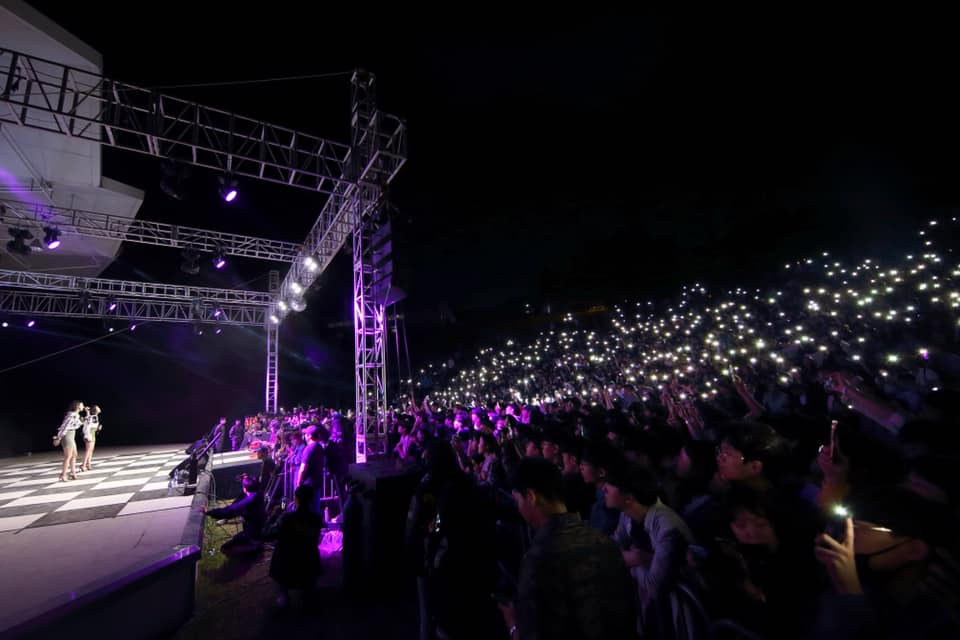
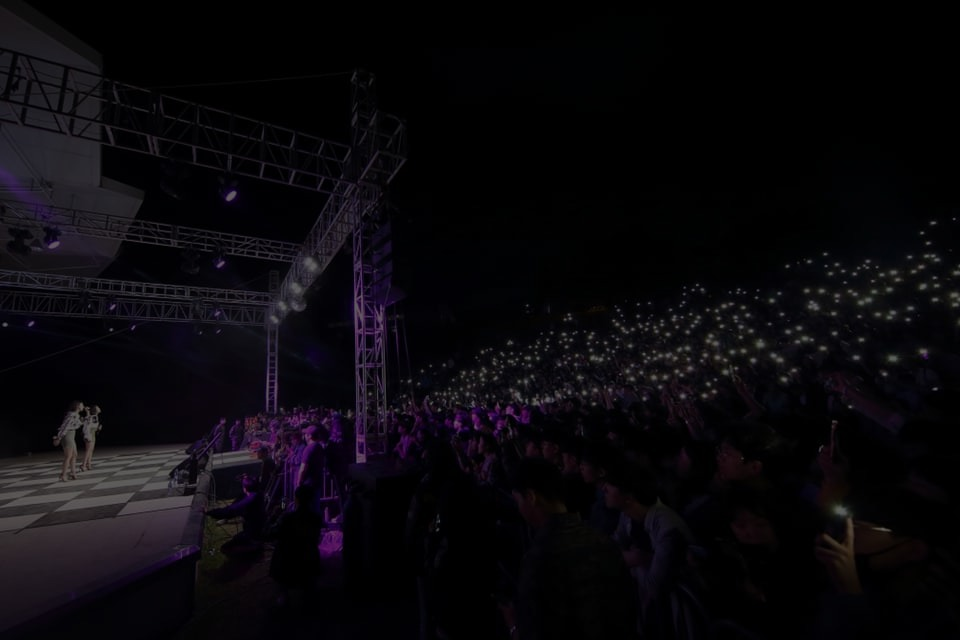
fixed carousel image

diff --git a/index.html b/index.html
@@ -63,43 +63,32 @@
         </ol>
         <div class="carousel-inner">
         <div class="carousel-item active">
-            <svg class="bd-placeholder-img" width="100%" height="100%" xmlns="http://www.w3.org/2000/svg" preserveAspectRatio="xMidYMid slice" focusable="false" role="img"><rect width="100%" height="100%"/>
-                <img class="img1" src="images/c1.jpg" alt="">
-            </svg>
-            <div class="container">
+            <img class="img1" src="images/c1.jpg" alt="">
             <div class="carousel-caption text-left">
                 <h1>렛츠 에스카라!</h1>
                 <p>장소: 성균관대학교 인문 캠퍼스<br>일시: 2020년 5월 15일</p>
                 <p> <br> </p>
                 <p> <br> </p>
             </div>
-            </div>
         </div>
         <div class="carousel-item">
-            <svg class="bd-placeholder-img" width="100%" height="100%" xmlns="http://www.w3.org/2000/svg" preserveAspectRatio="xMidYMid slice" focusable="false" role="img"><rect width="100%" height="100%"/>
                 <img class="img2" src="images/c2.jpg" alt="">
-            </svg>
-            <div class="container">
             <div class="carousel-caption">
                 <h1>대동제가:</h1>
-                <p id="timer"> asdfasdf </p>
+                <p id="timer">  </p>
                 <p> <br> </p>
                 <p> <br> </p>
-            </div>
             </div>
         </div>
         <div class="carousel-item">
-            <svg class="bd-placeholder-img" width="100%" height="100%" xmlns="http://www.w3.org/2000/svg" preserveAspectRatio="xMidYMid slice" focusable="false" role="img"><rect width="100%" height="100%"/>
-                <img class="img2" src="images/c3.jpg" alt="">
-            </svg>
-            <div class="container">
-            <div class="carousel-caption text-right">
+                <img class="img3" src="images/c3.jpg" alt="">
+                <div class="carousel-caption text-right">
                 <h1>맛집 소개</h1>
                 <p>성대 주변의 맛집을 추천드려요!</p>
                 <p><br></p>
                 <p><a class="btn btn-lg btn-primary" href="#" role="button">맛집 확인하러 가기</a></p>
             </div>
-            </div>
+            
         </div>
         </div>
         <a class="carousel-control-prev" href="#myCarousel" role="button" data-slide="prev">

diff --git a/carousel.css b/carousel.css
@@ -25,6 +25,7 @@ body {
   /* Declare heights because of positioning of img element */
   .carousel-item {
     height: 32rem;
+    overflow: hidden;
   }
   .carousel-item > img {
     position: absolute;
@@ -35,17 +36,17 @@ body {
   }
 
   .img1 {
-      z-index: -1;
+      z-index: 1;
   }
 
   .img2 {
       z-index: -1;
       margin: auto;
   }
-
-  rect {
-      opacity: 50%;
-      fill: "black";
+  
+  .img3 {
+    z-index: -1;
+    margin: auto;
   }
   
   .carousel-control.left, .carousel-control.right {
